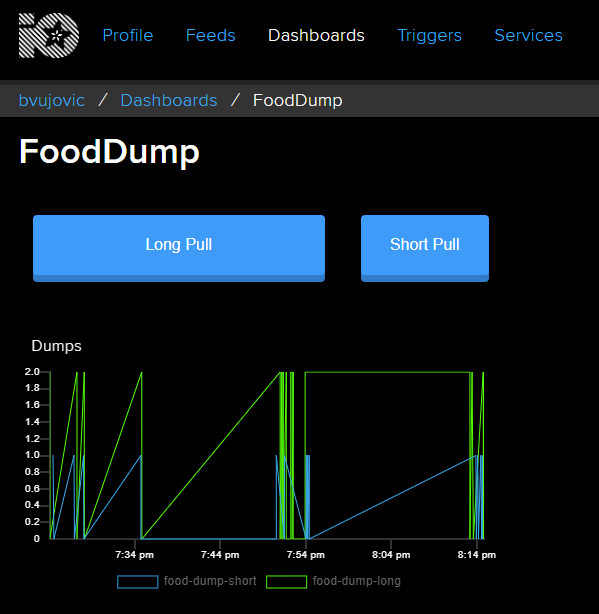
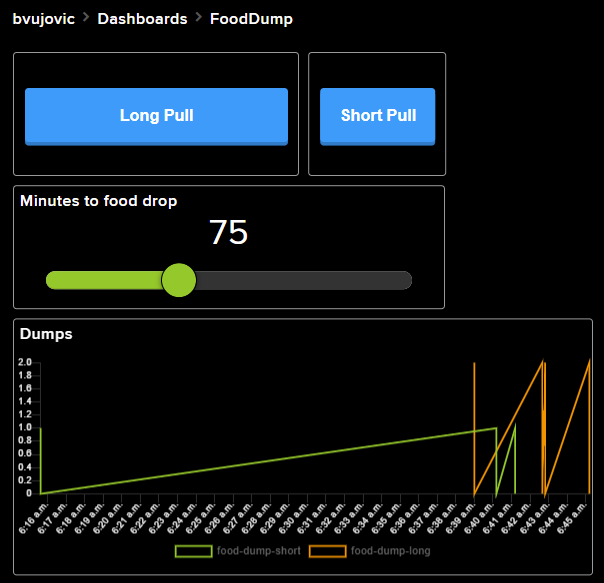
Added time/delayed long pull. Added MQTT/WiFi status LED. Smaller code improvements. AIO_dashboard.png updated.

diff --git a/src/main.cpp b/src/main.cpp
@@ -6,16 +6,22 @@
 
 WiFiClient wiFiClient;
 PubSubClient mqtt(wiFiClient);
+typedef unsigned int uint;
 void callback(char *topic, byte *data, uint length);
 
 #define FEED_SHORT_DUMP "food-dump-short"
 #define FEED_LONG_DUMP "food-dump-long"
-const int pinSolenoid = D1;
-const int pinModeSwitch = D2; // Prekidac za izbor moda: MQTT ili touch.
-const int SHORT_PULL = 75;        // Kratko aktiviranje solenoida (ispustanje hrane).
-const int LONG_PULL = 300;        // Dugo aktiviranje solenoida (ispustanje hrane).
-const int MAX_SOLENOID_ON = 2000; // Maksimalno trajanje (u ms) aktiviranog/povucenog solenoida.
-uint itvPrepareToDump;            // Trajanje (u ms) cekanja pred sipanje hrane.
+#define FEED_LONG_DELAYED "food-dump-time"
+const uint SEC = 1000;
+const uint MIN = 60 * SEC;
+const byte pinSolenoid = D1;
+const byte pinModeSwitch = D2;       // Prekidac za izbor moda: MQTT ili touch.
+const byte pinWiFi = D8;             // LED indikator WiFi-a (MQTT_Mode);
+const int SHORT_PULL = 75;           // Kratko aktiviranje solenoida (ispustanje hrane).
+const int LONG_PULL = 300;           // Dugo aktiviranje solenoida (ispustanje hrane).
+const int MAX_SOLENOID_ON = SEC; // Maksimalno trajanje (u ms) aktiviranog/povucenog solenoida.
+uint itvPrepareToDump;               // Trajanje (u ms) cekanja pred sipanje hrane.
+uint msFoodDrop = 0;                 // Vreme za prosipanje hrane kada se koristi time/delayed MQTT opcija.
 
 // Moguce vrednosti za dugmice u AIO FoodDump dashboard-u.
 enum ButtonStatus
@@ -32,12 +38,28 @@ enum DeviceMode
 } deviceMode;
 
 #include "Blinky.h"
-Blinky led(LED_BUILTIN, false, 1000, 3);
+Blinky led(LED_BUILTIN, false, SEC, 3);
+Blinky ledWiFi(pinWiFi, true);
 
 void solenoidON(bool on)
 {
     digitalWrite(pinSolenoid, on);
     led.ledOn(on);
+}
+
+// Priprema (paljenje LEDa) i pull solenoida (trajanje zadato sa ms).
+void solenoidPull(uint ms)
+{
+    // cekanje da se korisnik pripremi za gledanje prosipanja hrane
+    led.on();
+    delay(itvPrepareToDump);
+    led.off();
+    delay(SEC);
+    Serial.println("Solenoid pull");
+    // prosipanje hrane omalenom kunikulusu
+    solenoidON(true);
+    delay(ms);
+    solenoidON(false);
 }
 
 void reconnect()
@@ -48,7 +70,6 @@ void reconnect()
         ESP.reset();
     }
 
-    // Loop until we're reconnected
     while (!mqtt.connected())
     {
         Serial.println("MQTT connecting...");
@@ -57,7 +78,8 @@ void reconnect()
             Serial.println("Connected");
             mqtt.subscribe(AIO_USER AIO_FEEDS FEED_SHORT_DUMP, 0);
             mqtt.subscribe(AIO_USER AIO_FEEDS FEED_LONG_DUMP, 0);
-            led.ledOn(false);
+            mqtt.subscribe(AIO_USER AIO_FEEDS FEED_LONG_DELAYED, 0);
+            led.off();
         }
         else
         {
@@ -70,8 +92,6 @@ void reconnect()
 
 void setup()
 {
-    pinMode(LED_BUILTIN, OUTPUT);
-    led.ledOn(false);
     pinMode(pinSolenoid, OUTPUT);
     pinMode(pinModeSwitch, INPUT_PULLUP);
     delay(100);
@@ -79,7 +99,7 @@ void setup()
 
     if (deviceMode == TouchMode)
     {
-        itvPrepareToDump = 1000; // cekanje da bi se izbegao burst ispaljivanja granula zbog nestabilnog signala
+        itvPrepareToDump = SEC; // cekanje da bi se izbegao burst ispaljivanja granula zbog nestabilnog signala
         delay(itvPrepareToDump);
         solenoidON(true);
         delay(SHORT_PULL);
@@ -89,8 +109,9 @@ void setup()
     if (deviceMode == MQTT_Mode)
     {
         Serial.begin(115200);
-        itvPrepareToDump = 5000; // cekanja da se korisnik spremi za posmatranje sipanja hrane
-        led.ledOn(true);
+        itvPrepareToDump = 5 * SEC; // cekanja da se korisnik spremi za posmatranje sipanja hrane
+        led.on();
+        ledWiFi.on();
         WiFi.mode(WIFI_STA);
         ConnectToWiFi();
         Serial.print("\nWiFi connected, IP address: ");
@@ -107,29 +128,44 @@ void loop()
         if (!mqtt.connected())
             reconnect();
         mqtt.loop();
+
+        if (msFoodDrop != 0 && millis() >= msFoodDrop)
+        {
+            solenoidPull(LONG_PULL);
+            msFoodDrop = 0;
+        }
     }
     delay(100);
 }
 
+uint dataToInt(byte *data, uint length)
+{
+    uint x = 0;
+    for (size_t i = 0; i < length; i++)
+        x = x * 10 + data[i] - '0';
+    return x;
+}
+
 void callback(char *topic, byte *data, uint length)
 {
-    //T Serial.println(topic);
-    //T Serial.println((int)data[0]);
-    int ms = -1; // trajanje (u ms) povlacenja poluge solenoida
+    Serial.println(topic);
+    for (size_t i = 0; i < length; i++)
+        Serial.printf("%c", data[i]);
+    Serial.println();
+
+    msFoodDrop = 0;
+    bool isDelayedPull = strstr(topic, "time");
+    if (isDelayedPull)
+    {
+        uint itv = dataToInt(data, length) * MIN;
+        msFoodDrop = millis() + itv;
+    }
+
+    uint ms = 0; // trajanje (u ms) povlacenja poluge solenoida
     if (data[0] == BTN_SHORT)
         ms = SHORT_PULL;
     if (data[0] == BTN_LONG)
         ms = LONG_PULL;
-    if (ms > 0 && ms <= MAX_SOLENOID_ON)
-    {
-        // cekanje da se korisnik pripremi za gledanje prosipanja hrane
-        led.ledOn(true);
-        delay(itvPrepareToDump);
-        led.ledOn(false);
-        delay(1000);
-        // prosipanje hrane omalenom kunikulusu
-        solenoidON(true);
-        delay(ms);
-        solenoidON(false);
-    }
+    if (ms > 0 && ms <= MAX_SOLENOID_ON && !isDelayedPull)
+        solenoidPull(ms);
 }
